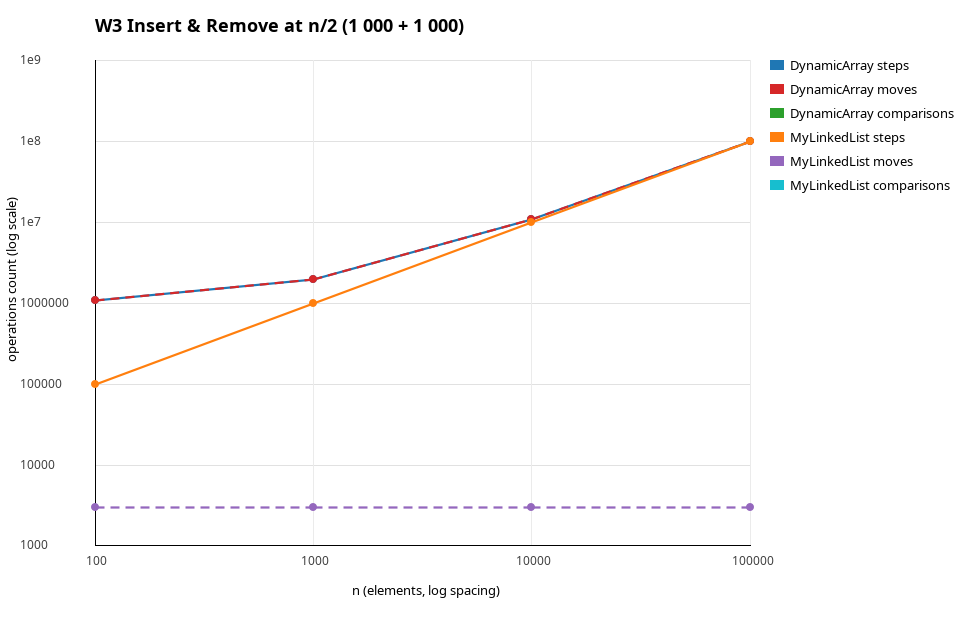
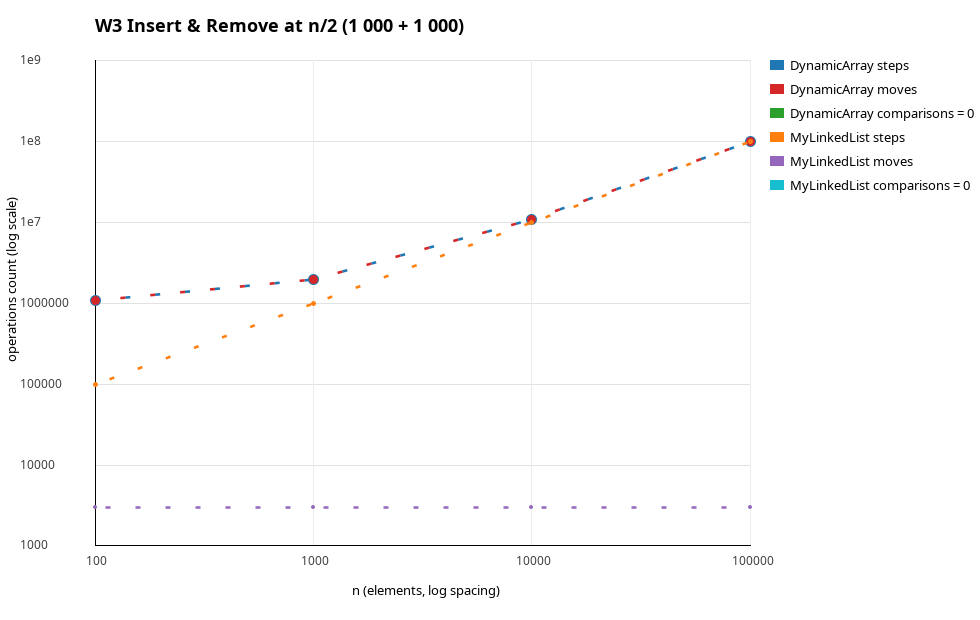
fix(plots): show overlapping and zero series

diff --git a/src/main/java/dsa/Plots.java b/src/main/java/dsa/Plots.java
@@ -69,11 +69,20 @@ public final class Plots {
             ops[i * 3] = series(w, v, structures[i], 1);
             ops[i * 3 + 1] = series(w, v, structures[i], 2);
             ops[i * 3 + 2] = series(w, v, structures[i], 3);
-            opNames[i * 3] = structures[i] + " steps";
-            opNames[i * 3 + 1] = structures[i] + " moves";
-            opNames[i * 3 + 2] = structures[i] + " comparisons";
+            opNames[i * 3] = label(structures[i] + " steps", ops[i * 3]);
+            opNames[i * 3 + 1] = label(structures[i] + " moves", ops[i * 3 + 1]);
+            opNames[i * 3 + 2] = label(structures[i] + " comparisons", ops[i * 3 + 2]);
         }
         chart(dir.resolve(prefix + "_ops.png"), title, "operations count (log scale)", opNames, ops);
+    }
+
+    private static String label(String name, double[] values) {
+        for (double value : values) {
+            if (value > 0) {
+                return name;
+            }
+        }
+        return name + " = 0";
     }
 
     private static String[] structuresOf(String w, String v) {
@@ -182,9 +191,8 @@ public final class Plots {
 
         for (int s = 0; s < values.length; s++) {
             g.setColor(COLORS[s % COLORS.length]);
-            g.setStroke(s % 3 == 1
-                    ? new BasicStroke(2.2f, BasicStroke.CAP_BUTT, BasicStroke.JOIN_MITER, 10f, new float[]{9f, 6f}, 0f)
-                    : new BasicStroke(2.2f));
+            g.setStroke(stroke(s, values.length));
+            int marker = Math.max(4, 11 - 2 * s);
             int previousX = -1;
             int previousY = -1;
             for (int k = 0; k < sizes.length; k++) {
@@ -198,7 +206,7 @@ public final class Plots {
                 if (previousX >= 0) {
                     g.drawLine(previousX, previousY, x, y);
                 }
-                g.fillOval(x - 4, y - 4, 8, 8);
+                g.fillOval(x - marker / 2, y - marker / 2, marker, marker);
                 previousX = x;
                 previousY = y;
             }
@@ -216,6 +224,18 @@ public final class Plots {
 
         g.dispose();
         ImageIO.write(image, "png", file.toFile());
+    }
+
+    private static BasicStroke stroke(int index, int total) {
+        if (total <= 2) {
+            return index == 0
+                    ? new BasicStroke(2.2f)
+                    : new BasicStroke(2.2f, BasicStroke.CAP_BUTT, BasicStroke.JOIN_MITER, 10f,
+                            new float[]{9f, 6f}, 0f);
+        }
+        float period = 5f * total;
+        return new BasicStroke(2.6f, BasicStroke.CAP_BUTT, BasicStroke.JOIN_MITER, 10f,
+                new float[]{5f, period - 5f}, 5f * index);
     }
 
     private static void drawVertical(Graphics2D g, String text, int x, int y) {

diff --git a/REPORT.md b/REPORT.md
@@ -178,8 +178,11 @@ W4 Priority Processing:
 ![W4 time](results/plots/w4_time.png)
 ![W4 operations](results/plots/w4_ops.png)
 
-In the charts a dashed line is the `moves` series (and `MyLinkedList` on the time charts).
-A series that is constantly zero (for example `moves` in W2) is not drawn on the logarithmic axis.
+On the operation charts the series use staggered dash patterns, so series with identical values
+(for example `steps` and `comparisons` of both structures in W2) are visible as alternating colours
+along the same line. A series that is constantly zero cannot be drawn on a logarithmic axis and is
+marked `= 0` in the legend. The fill phase is not timed and not counted: the counters are reset
+after the structure is built, so every row describes only the measured phase of the workload.
 
 ---
 

diff --git a/README.md b/README.md
@@ -64,3 +64,5 @@ workload,variant,structure,n,time_ms,steps,moves,comparisons
 `variant` is `head` or `middle` for W3 and `-` for the other workloads.
 Counters are incremented inside the operations: `steps` - array cell read or node hop,
 `moves` - array element shift or pointer update, `comparisons` - comparison of two elements.
+The structure is filled before the clock starts and the counters are reset after the fill,
+so every row covers only the measured phase of the workload.
